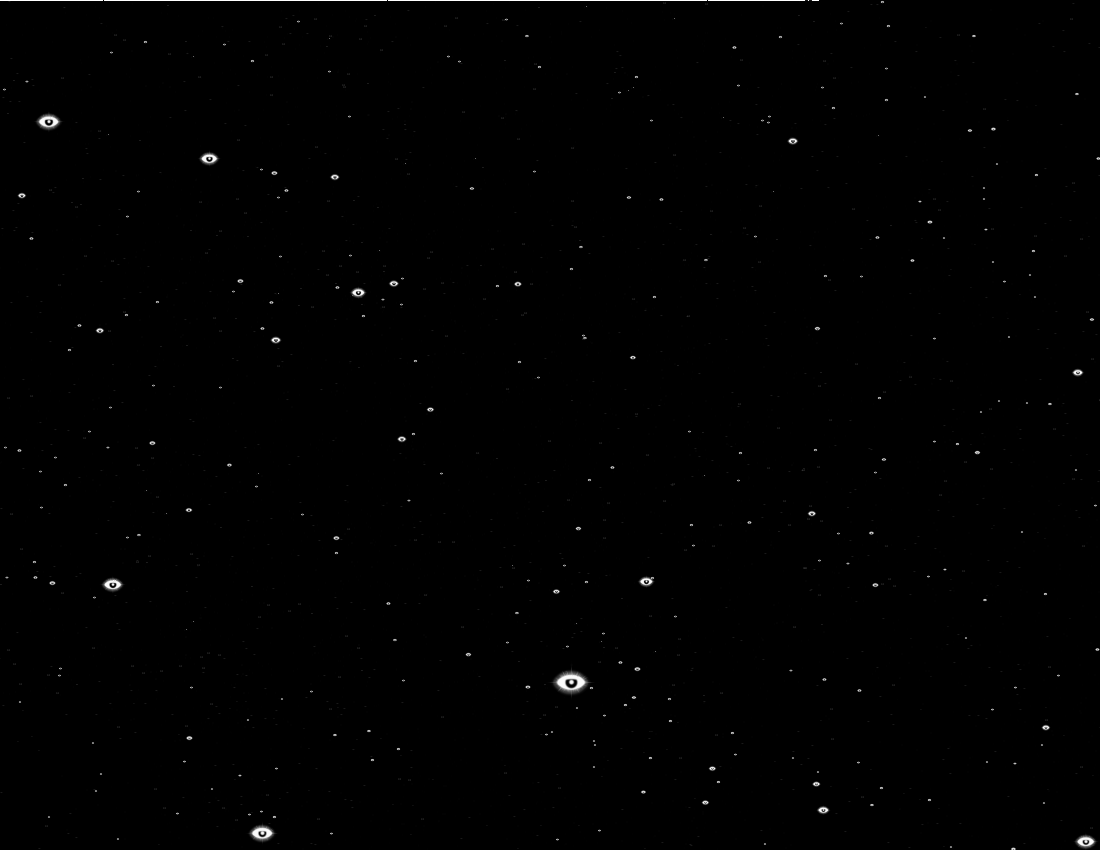
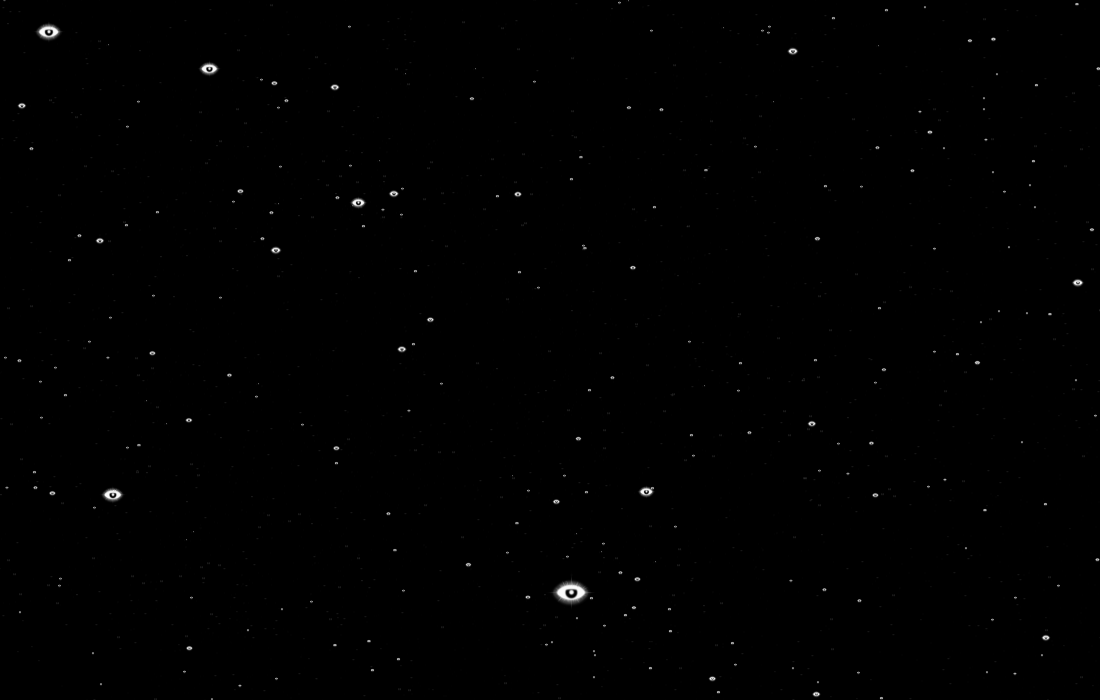
Background of game window now changes when you click play button

diff --git a/src/game/animation.jsx b/src/game/animation.jsx
@@ -15,7 +15,7 @@ function drawLineQuick(canvas, pos1, pos2) {
     canvas.stroke();
 }
 
-export function loadImages(names) {
+function loadImagesProm(names) {
     var images = new Array(names.length).fill(null);
     var promises = new Array(names.length).fill(null);
 
@@ -28,6 +28,18 @@ export function loadImages(names) {
     }
 
     return Promise.all(promises);
+}
+
+export function loadImages(graphicsRef, img_names) {
+    var imagesProm = loadImagesProm(img_names);
+    //console.log("before: " + Object.keys(graphicsRef.current).length);
+    imagesProm.then((images) => {
+        for (let i = 0; i < img_names.length; i++) {
+            graphicsRef.current[img_names[i]] = images[i];
+        }
+        localStorage.setItem("loaded", "t");
+        //console.log("after: " + Object.keys(graphicsRef.current).length);
+    });
 }
 
 export function loadThumbnail() {
@@ -49,23 +61,26 @@ export function loadThumbnail() {
 }
 
 export function updateGraphics(lastFrameTime, graphics, gameWindow) {
-    if (localStorage.getItem("loaded")) {
+    //console.log("started = " + localStorage.getItem("started"));
+    //console.log("!started = " + (localStorage.getItem("started")));
+    if (!(localStorage.getItem("started"))) {
         gameWindow.drawImage(graphics.thumbnail, 0, 0, graphics.windowWidth, graphics.windowHeight);
-        //console.log("started = " + localStorage.getItem("started"));
-        //console.log("!started = " + (localStorage.getItem("started")));
-        if (!(localStorage.getItem("started"))) {
-            gameWindow.globalAlpha = 0.6;
-            gameWindow.drawImage(
-                graphics.play_button, 
-                (graphics.windowWidth - graphics.buttonSize) / 2, 
-                (graphics.windowHeight - graphics.buttonSize) / 2, 
-                graphics.buttonSize, graphics.buttonSize
-            );
-            gameWindow.globalAlpha = 1;
-        }
+        gameWindow.globalAlpha = 0.6;
+        gameWindow.drawImage(
+            graphics.play_button, 
+            (graphics.windowWidth - graphics.buttonSize) / 2, 
+            (graphics.windowHeight - graphics.buttonSize) / 2, 
+            graphics.buttonSize, graphics.buttonSize
+        );
+        gameWindow.globalAlpha = 1;
     }
     else {
-
+        if (localStorage.getItem("loaded")) {
+            gameWindow.drawImage(graphics.background1, 0, 0, graphics.windowWidth, graphics.windowHeight);
+        }
+        else {
+            gameWindow.drawImage(graphics.thumbnail, 0, 0, graphics.windowWidth, graphics.windowHeight);
+        }
     }
 
     requestAnimationFrame((frameEndTime) => {updateGraphics(frameEndTime, graphics, gameWindow);});

diff --git a/src/game/game.jsx b/src/game/game.jsx
@@ -1,17 +1,19 @@
 import React from "react";
 import {NavLink} from "react-router-dom";
 import {keyPress} from "./playerInputHandler.jsx";
-import {runGame} from "./runGame.jsx";
 import {loadImages, loadThumbnail, updateGraphics} from "./animation.jsx";
+import {runGame} from "./runGame.jsx";
 import "./game.css";
 
 const img_names = ["arrow", "background1", "bubble", "bubble2", "explosion", "flame", "logo", "m-bot", "poco", "rock", "text"];
+
 const graphicsMap = Object();
 graphicsMap.windowHeight = 560;
 graphicsMap.windowWidth = 880;
 graphicsMap.buttonSize = graphicsMap.windowHeight / 4;
 
 export function Game() {
+    const graphicsMapRef = React.useRef(graphicsMap);
     const windowRef = React.useRef(null);
     var gameWindow;
     var y = 0;
@@ -23,21 +25,14 @@ export function Game() {
         const handler = (event) => {y += 20; keyPress(event, gameWindow, y, graphicsMap);};
 
         gameWindow = windowRef.current.getContext("2d");
-        var imgs_loaded = loadThumbnail();
-        imgs_loaded.then((thumbnail_imgs) => {
+        var thumbnail_loaded = loadThumbnail();
+        thumbnail_loaded.then((thumbnail_imgs) => {
             graphicsMap.thumbnail = thumbnail_imgs[0];
             graphicsMap.play_button = thumbnail_imgs[1];
             requestAnimationFrame((lastFrameTime) => {updateGraphics(lastFrameTime, graphicsMap, gameWindow);});
         });
 
         document.addEventListener("keydown", handler);
-        var imagesProm = loadImages(img_names);
-        imagesProm.then((images) => {
-            for (let i = 0; i < img_names.length; i++) {
-                graphicsMap[img_names[i]] = images[i];
-            }
-            localStorage.setItem("loaded", "t");
-        });
 
         return (() => {document.removeEventListener("keydown", handler);});
     });
@@ -107,9 +102,12 @@ export function Game() {
                 </section>
 
                 <section className="window">
-                    <canvas ref={windowRef} alt="Game window"
+                    <canvas ref={windowRef} alt="Game window" className="unclicked"
                         width={graphicsMap.windowWidth} height={graphicsMap.windowHeight}
-                        onClick={() => {runGame();} } />
+                        onClick={() => {
+                            runGame(windowRef);
+                            loadImages(graphicsMapRef, img_names);
+                        } } />
                 </section>
 
             </main>

diff --git a/src/game/runGame.jsx b/src/game/runGame.jsx
@@ -1,5 +1,5 @@
-export function runGame() {
+export function runGame(windowRef) {
+    windowRef.current.className = "";
     console.log("running");
     localStorage.setItem("started", true);
-//    window.drawImage(imageMap.thumbnail, 0, 0, windowWidth, windowHeight);
 }

diff --git a/src/game/game.css b/src/game/game.css
@@ -87,12 +87,12 @@ section.window {
     margin-top: 5px;
 }
 
-canvas {
+canvas.unclicked {
     cursor: pointer;
     background-color: white;
 }
 
-canvas:hover {
+canvas.unclicked:hover {
     opacity: 0.8;
 }
 
